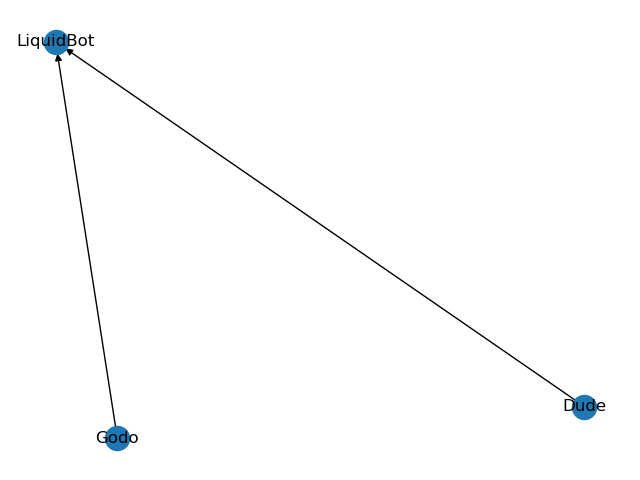
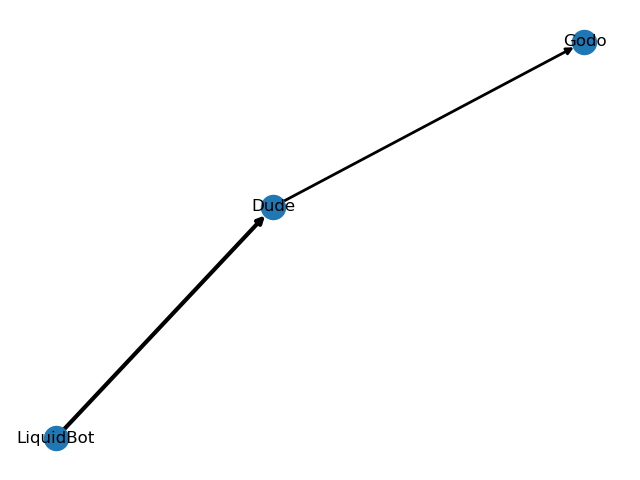
widths

diff --git a/main.py b/main.py
@@ -17,7 +17,7 @@ except FileNotFoundError:
 except json.decoder.JSONDecodeError:
     print("Couldn't load grants")
     grants = dict()
-#JSON stores keys as str, convert back to int
+"""JSON stores keys as str, convert back to int"""
 grants = {int(key):value for key,value in grants.items()}
 
 @bot.event
@@ -45,9 +45,9 @@ def drawNodes(nodes, edges):
     G.add_nodes_from(nodes)
     for edge in edges:
         u,v,w = edge
-        print(w)
         G.add_edge(u, v, weight=w)
-    nx.draw(G, with_labels=True)
+    widths = [G[u][v]['weight'] for u,v in G.edges()]
+    nx.draw(G, with_labels=True, width=widths)
     plt.savefig("resources/output.png")
 
 @bot.command()
@@ -62,7 +62,7 @@ async def info(ctx, content):
     except AttributeError:
         output = []
     nodes = output
-    edges = [(name, granted.name, len([key for key in grants if grants[key] == ctx.message.guild.get_member_named(name).id])+1) for name in output]
+    edges = [(name, granted.name) for name in output]
     if len(output) > 0:
         await ctx.channel.send("{0} is trusted by {1}: {2}".format(granted.name, len(output), output))
     else:
@@ -74,6 +74,7 @@ async def info(ctx, content):
     except KeyError:
         await ctx.channel.send("{0} trusts nobody".format(granted.name))
 
+    edges = [(u, v, len([key for key in grants if grants[key] == ctx.message.guild.get_member_named(u).id])+1) for u,v in edges]
     drawNodes(nodes, edges)
     await ctx.channel.send(file=discord.File('resources/output.png'))
 
